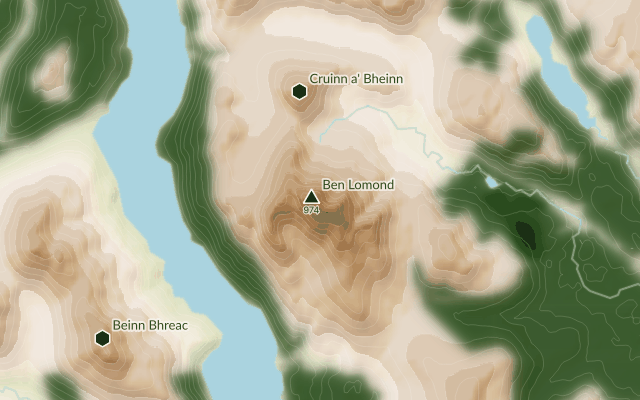
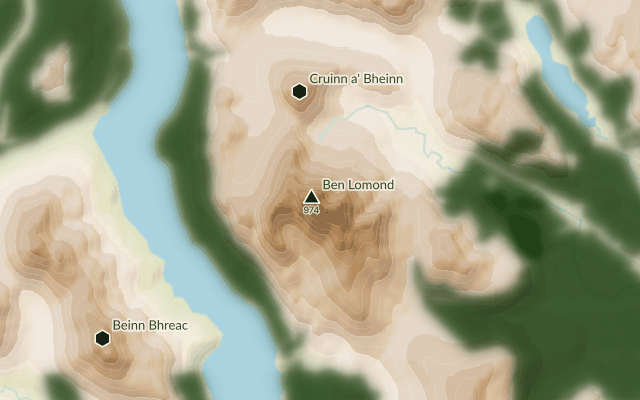
Separate forests onto their own tile set
Draw forest from the project's OSM - Forestry layer as a transparent overlay
instead of inside the topology tiles, so it can be switched off. Blending it
with multiply keeps the hillshade and contours showing through the trees.

- render_tiles.py: new forests tile set; topology no longer includes forest
- Makefile, preview page and README updated; samples include forests
- make_samples.py multiplies forests when compositing

Claude-Session: https://claude.ai/code/session_01Gwmi3WjaBnCt1hHhLPvCfH

diff --git a/preview/index.html b/preview/index.html
@@ -8,6 +8,9 @@
 <link rel="stylesheet" href="https://fonts.googleapis.com/css2?family=Lato:ital,wght@0,400;1,400&display=swap">
 <style>
   html, body, #map { height: 100%; margin: 0; }
+  /* Forest is a transparent overlay; multiplying it with the topology keeps the hillshade
+     and contours showing through the trees. */
+  .forest-layer { mix-blend-mode: multiply; }
 </style>
 </head>
 <body>
@@ -27,6 +30,7 @@
   const q = new URLSearchParams(location.search);
   const map = L.map('map').setView([+(q.get('lat') || 56.2), +(q.get('lng') || -4.5)], +(q.get('z') || 11));
   const topology = L.tileLayer(`${tiles}/topology/${version}/{z}/{x}/{y}.png`, options).addTo(map);
+  const forests = L.tileLayer(`${tiles}/forests/${version}/{z}/{x}/{y}.png`, { ...options, className: 'forest-layer' }).addTo(map);
   const hills = L.tileLayer(`${tiles}/dbobih/${version}/{z}/{x}/{y}.png`, options).addTo(map);
   const trigs = L.tileLayer(`${tiles}/trigs/${version}/{z}/{x}/{y}.png`, options);
   const roads = L.tileLayer(`${tiles}/roads/${version}/{z}/{x}/{y}.png`, options).addTo(map);
@@ -38,7 +42,7 @@
   const water = new WaterNames(`${tiles}/waternames/${version}/water-names.geojson`).addTo(map);
 
   L.control.layers({ Topology: topology }, {
-    'Hills': hills, 'Trig points': trigs, 'Roads': roads, 'Railways and stations': transport, 'Facilities': facilities, 'Rivers and waterfalls': rivers, 'Paths': paths, 'Bothies and shelters': shelters, 'Water names': water,
+    'Forest': forests, 'Hills': hills, 'Trig points': trigs, 'Roads': roads, 'Railways and stations': transport, 'Facilities': facilities, 'Rivers and waterfalls': rivers, 'Paths': paths, 'Bothies and shelters': shelters, 'Water names': water,
   }).addTo(map);
 </script>
 </body>

diff --git a/scripts/make_samples.py b/scripts/make_samples.py
@@ -15,26 +15,32 @@ import subprocess
 import sys
 import tempfile
 
+import numpy as np
 from PIL import Image
 
 WIDTH, HEIGHT = 640, 400
 
+# Layers that the map blends with multiply (CSS mix-blend-mode), so the terrain shows through
+MULTIPLY = {"forests"}
+
 # name: (centre lon, centre lat, zoom, layers from the bottom up)
 SAMPLES = {
     "topology": (-4.55, 56.10, 11, ["topology"]),
-    "dbobih": (-4.63, 56.19, 12, ["topology", "dbobih"]),
-    "trigs": (-4.32, 56.25, 12, ["topology", "trigs"]),
-    "roads": (-4.31, 55.865, 12, ["topology", "roads"]),
-    "transport": (-4.30, 55.86, 13, ["topology", "roads", "transport"]),
-    "paths": (-3.80, 57.17, 13, ["topology", "paths"]),
-    "rivers": (-4.42, 56.35, 12, ["topology", "rivers"]),
-    "shelters": (-3.64, 57.08, 12, ["topology", "shelters"]),
-    "facilities": (-3.68, 57.145, 12, ["topology", "facilities"]),
+    "forests": (-4.42, 56.35, 12, ["topology", "forests"]),
+    "dbobih": (-4.63, 56.19, 12, ["topology", "forests", "dbobih"]),
+    "trigs": (-4.32, 56.25, 12, ["topology", "forests", "trigs"]),
+    "roads": (-4.31, 55.865, 12, ["topology", "forests", "roads"]),
+    "transport": (-4.30, 55.86, 13, ["topology", "forests", "roads", "transport"]),
+    "paths": (-3.80, 57.17, 13, ["topology", "forests", "paths"]),
+    "rivers": (-4.42, 56.35, 12, ["topology", "forests", "rivers"]),
+    "shelters": (-3.64, 57.08, 12, ["topology", "forests", "shelters"]),
+    "facilities": (-3.68, 57.145, 12, ["topology", "forests", "facilities"]),
 }
 
 # Data each tile set needs (the topology needs the DEM files)
 NEEDS = {
     "topology": ["data/merged-dem.tif", "data/hill-shade-merged.tif", "data/contours-merged.gpkg"],
+    "forests": [],
     "dbobih": ["sources/dobih.csv"],
     "trigs": ["sources/trigs.csv"],
     "roads": ["data/roads.gpkg"],
@@ -89,7 +95,16 @@ def make(name, outdir):
                     path = os.path.join(tmp, tileset, "s", str(zoom), str(x), f"{y}.png")
                     if os.path.exists(path):
                         tile = Image.open(path).convert("RGBA")
-                        canvas.alpha_composite(tile, ((x - x0) * 256, (y - y0) * 256))
+                        at = ((x - x0) * 256, (y - y0) * 256)
+                        if tileset in MULTIPLY:
+                            box = (*at, at[0] + 256, at[1] + 256)
+                            under = np.array(canvas.crop(box)).astype(float)
+                            over = np.array(tile).astype(float)
+                            alpha = over[:, :, 3:4] / 255
+                            under[:, :, :3] = under[:, :, :3] * (1 - alpha) + alpha * under[:, :, :3] * over[:, :, :3] / 255
+                            canvas.paste(Image.fromarray(under.astype("uint8")), at)
+                        else:
+                            canvas.alpha_composite(tile, at)
         ox, oy = int(left - x0 * 256), int(top - y0 * 256)
         image = canvas.crop((ox, oy, ox + WIDTH, oy + HEIGHT)).convert("RGB")
     os.makedirs(outdir, exist_ok=True)

diff --git a/scripts/render_tiles.py b/scripts/render_tiles.py
@@ -26,7 +26,6 @@ TILESETS = {
         "layers": [
             "Contours",
             "OSM - Water",
-            "OSM - Forestry",
             "merged-hillshade-315",
             "merged-dem",
         ],
@@ -34,6 +33,12 @@ TILESETS = {
         # The DEM ramp has extra levels below 200 m (see scripts/lowland_ramp.py).
         "styles": {"merged-dem": "styling/merged-dem.qml"},
         "transparent": False,
+    },
+    # Forest, drawn from the project's "OSM - Forestry" layer as a transparent overlay so
+    # that it can be switched off. Put it above the topology.
+    "forests": {
+        "layers": ["OSM - Forestry"],
+        "transparent": True,
     },
     "dbobih": {
         "layers": ["Database of British and Irish Hills"],

diff --git a/README.md b/README.md
@@ -11,13 +11,14 @@ Each build goes in a version directory (`<version>` below): `dev` by default, or
 the release tag for release builds (`make TILE_VERSION=v1.2 ...`).
 
 Each layer is a separate set of transparent tiles (apart from the topology, which is opaque),
-so a map can switch them on and off. A good stacking order, bottom to top, is topology, roads,
+so a map can switch them on and off. A good stacking order, bottom to top, is topology, forests, roads,
 paths, rivers, loch names, railways, shelters, facilities, hills, trig points. The zoom a feature
 first appears at is described under each layer's section further down.
 
 | Layer | Sample |
 |---|---|
-| **Topology** (`topology`)<br><br>Terrain, drawn as hypsometric tints with soft hillshade, 50 m contours, water and forest. Below 200 m the tints run from pale green to beige so hills show in flat country; above that they step through tan to brown. Zoom 9–13. Data: SRTM-derived DEM, OpenStreetMap. | <img src="docs/samples/topology.png" width="420" alt="Topology"> |
+| **Topology** (`topology`)<br><br>Terrain, drawn as hypsometric tints with soft hillshade, 50 m contours and water (forest is its own layer, below). Below 200 m the tints run from pale green to beige so hills show in flat country; above that they step through tan to brown. Zoom 9–13. Data: SRTM-derived DEM, OpenStreetMap. | <img src="docs/samples/topology.png" width="420" alt="Topology"> |
+| **Forests** (`forests`)<br><br>Woodland as dark green blurred patches, in a transparent overlay so it can be switched off. Blend it with `mix-blend-mode: multiply` (the preview page does) so the hillshade and contours still show through the trees. Zoom 9–13. Data: OpenStreetMap, via the project's `OSM - Forestry` layer. | <img src="docs/samples/forests.png" width="420" alt="Forests"> |
 | **Hills** (`dbobih`)<br><br>Hill markers with names and heights from the Database of British and Irish Hills, as a transparent overlay. Zoom 9–13. Data: DoBIH. | <img src="docs/samples/dbobih.png" width="420" alt="Hills"> |
 | **Trig points** (`trigs`)<br><br>Ordnance Survey triangulation pillars, as a transparent overlay. Zoom 9–13. Data: `sources/trigs.csv`. | <img src="docs/samples/trigs.png" width="420" alt="Trig points"> |
 | **Roads** (`roads`)<br><br>A deliberately quiet layer of thin grey lines. Zoomed out only motorways, trunk and primary roads show; smaller roads join as you zoom in, down to residential streets at zoom 13. Data: OpenStreetMap. | <img src="docs/samples/roads.png" width="420" alt="Roads"> |
